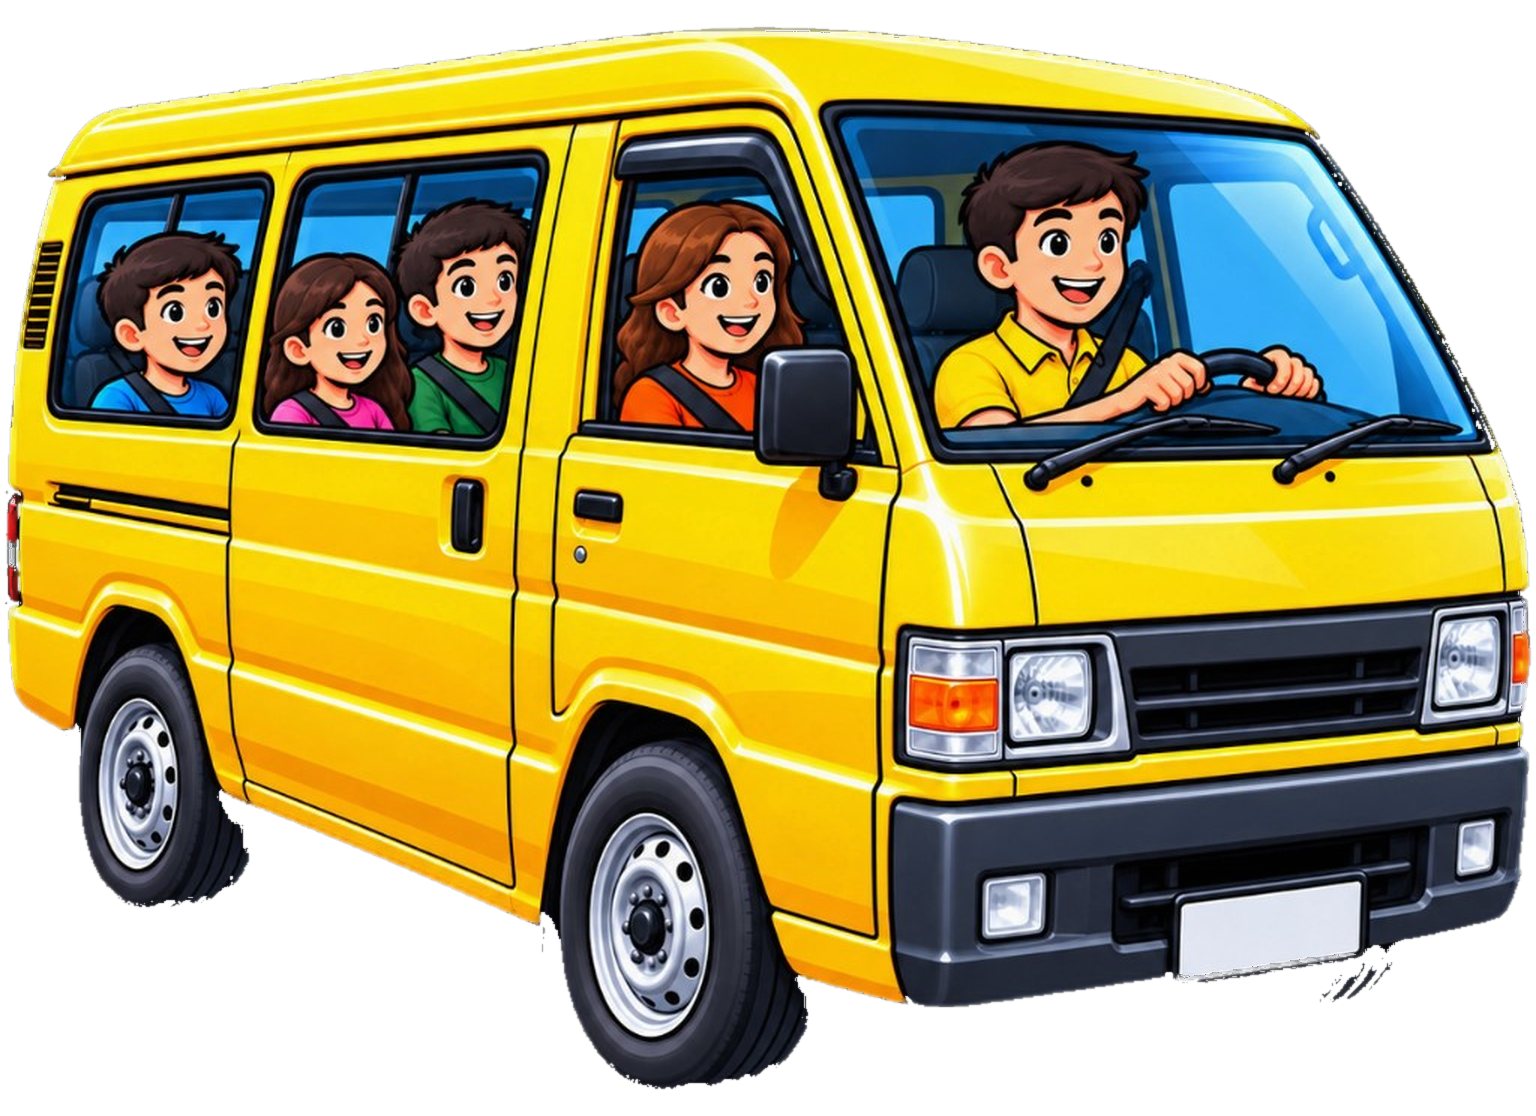
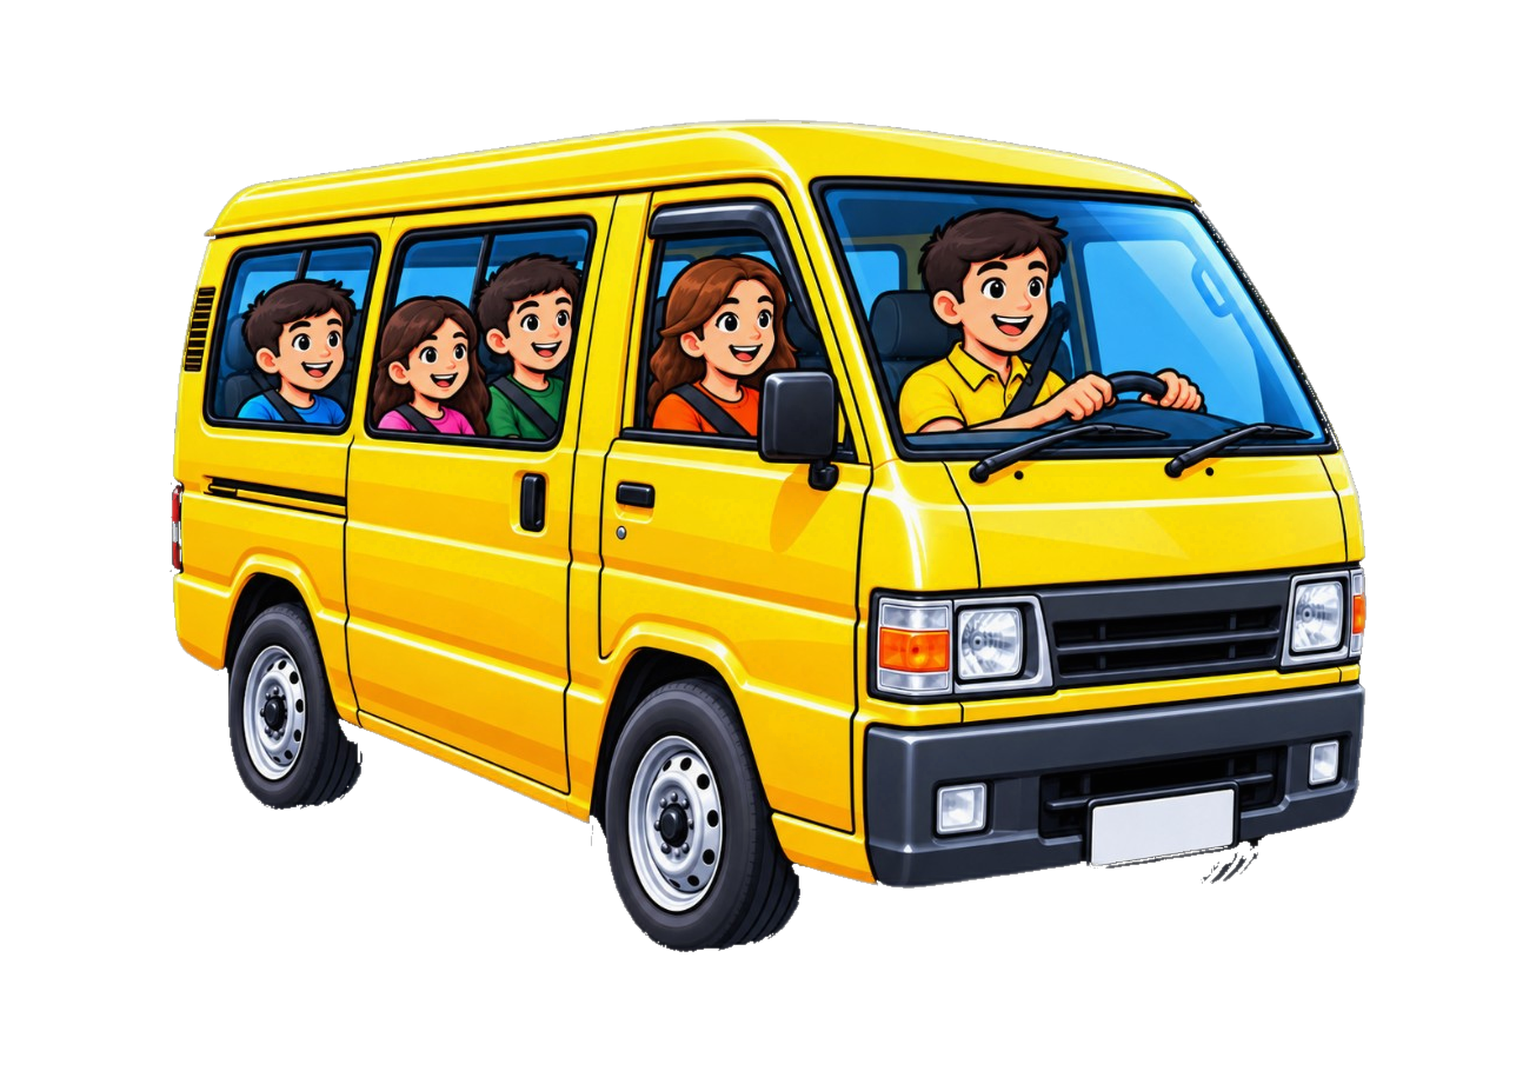
198

diff --git a/web/customer/src/styles.css b/web/customer/src/styles.css
@@ -1440,16 +1440,26 @@ button.brand-pill:active { transform: scale(.98); }
   opacity: 0.65;
 }
 .icon.art-row {
-  width: 84px;
-  height: 56px;
-  flex: 0 0 84px;
+  width: 96px;
+  height: 72px;
+  flex: 0 0 96px;
   background: transparent;
   border-radius: 10px;
+  overflow: visible;
 }
 .icon.art-row img {
-  width: 100%;
-  height: 100%;
+  width: auto;
+  height: auto;
+  max-width: 100%;
+  max-height: 100%;
   object-fit: contain;
+  object-position: center;
+}
+.vehicles.vehicles-list .vehicle,
+.vehicles.vehicles-pick .vehicle {
+  overflow: visible;
+  align-items: center;
+  min-height: 84px;
 }
 .ride-completed-banner {
   display: flex;

diff --git a/mobile_passenger_yapasakay/tools/rembg_vehicles.py b/mobile_passenger_yapasakay/tools/rembg_vehicles.py
@@ -1,10 +1,11 @@
-"""Cut vehicle JPGs to clean transparent PNGs with rembg + fringe cleanup."""
+"""Cut vehicle JPGs to clean transparent PNGs with rembg + fringe cleanup + padding."""
 from pathlib import Path
 
 from PIL import Image, ImageFilter
 from rembg import remove
 
 src_dir = Path(__file__).resolve().parents[1] / "assets" / "vehicles"
+web_dir = Path(__file__).resolve().parents[3] / "web" / "customer" / "public" / "vehicles"
 names = [
     "motorcycle",
     "tricycle",
@@ -13,15 +14,15 @@ names = [
     "van",
     "pickup_l300",
     "pickup_cargo",
+    "sedan",
+    "suv",
 ]
 
 
 def clean_fringe(im: Image.Image) -> Image.Image:
-    """Remove white/black halos left by JPEG + rembg on soft edges."""
     im = im.convert("RGBA")
     px = im.load()
     w, h = im.size
-    # Pass 1: clear near-white / near-black fringe when semi-transparent
     for y in range(h):
         for x in range(w):
             r, g, b, a = px[x, y]
@@ -30,16 +31,13 @@ def clean_fringe(im: Image.Image) -> Image.Image:
             if a < 40:
                 px[x, y] = (0, 0, 0, 0)
                 continue
-            # White halo
             if a < 250 and r >= 220 and g >= 220 and b >= 220:
                 px[x, y] = (0, 0, 0, 0)
                 continue
-            # Black studio leftover
             if a < 250 and r <= 28 and g <= 28 and b <= 28:
                 px[x, y] = (0, 0, 0, 0)
                 continue
 
-    # Pass 2: despill — color soft edges from nearest opaque pixels
     src = im.copy()
     spx = src.load()
     for y in range(h):
@@ -61,43 +59,53 @@ def clean_fringe(im: Image.Image) -> Image.Image:
             if n > 0:
                 px[x, y] = (rs // n, gs // n, bs // n, a)
 
-    # Slight alpha smooth so edges aren't stair-steppy at UI size
     a = im.split()[3].filter(ImageFilter.GaussianBlur(radius=0.6))
     im.putalpha(a)
     return im
 
 
-def trim_transparent(im: Image.Image, pad: int = 16) -> Image.Image:
+def pad_subject(im: Image.Image, pad_frac: float = 0.12) -> Image.Image:
+    """Keep full subject with transparent margin so UI boxes never clip wheels/helmets."""
     bbox = im.split()[3].getbbox()
     if not bbox:
         return im
-    l, t, r, b = bbox
-    l = max(0, l - pad)
-    t = max(0, t - pad)
-    r = min(im.width, r + pad)
-    b = min(im.height, b + pad)
-    return im.crop((l, t, r, b))
+    cropped = im.crop(bbox)
+    w, h = cropped.size
+    pad_x = max(24, int(w * pad_frac))
+    pad_y = max(24, int(h * pad_frac))
+    canvas = Image.new("RGBA", (w + pad_x * 2, h + pad_y * 2), (0, 0, 0, 0))
+    canvas.paste(cropped, (pad_x, pad_y), cropped)
+    return canvas
 
 
 def main() -> None:
+    web_dir.mkdir(parents=True, exist_ok=True)
     for name in names:
         jpg = src_dir / f"{name}.jpg"
-        png = src_dir / f"{name}.png"
-        if not jpg.exists():
-            print(f"skip {name}: no jpg")
+        png_src = src_dir / f"{name}.png"
+        # Prefer jpg for cutout; sedan/suv may only have clean png already.
+        if jpg.exists():
+            print(f"rembg {name}...")
+            src = Image.open(jpg).convert("RGBA")
+            cut = remove(src)
+            cut = clean_fringe(cut)
+            cut = pad_subject(cut, 0.14)
+        elif png_src.exists():
+            print(f"repad {name}...")
+            cut = pad_subject(Image.open(png_src).convert("RGBA"), 0.14)
+        else:
+            print(f"skip {name}: no source")
             continue
-        print(f"rembg {name}...")
-        src = Image.open(jpg).convert("RGBA")
-        cut = remove(src)
-        cut = clean_fringe(cut)
-        cut = trim_transparent(cut)
+
         target_w = 1536
         if cut.width != target_w:
             ratio = target_w / cut.width
             cut = cut.resize((target_w, max(1, int(cut.height * ratio))), Image.Resampling.LANCZOS)
-            cut = clean_fringe(cut)
-        cut.save(png, "PNG", optimize=True)
-        print(f"  -> {png.name} {cut.size}")
+
+        out = src_dir / f"{name}.png"
+        cut.save(out, "PNG", optimize=True)
+        cut.save(web_dir / f"{name}.png", "PNG", optimize=True)
+        print(f"  -> {out.name} {cut.size}")
     print("done")
 
 
